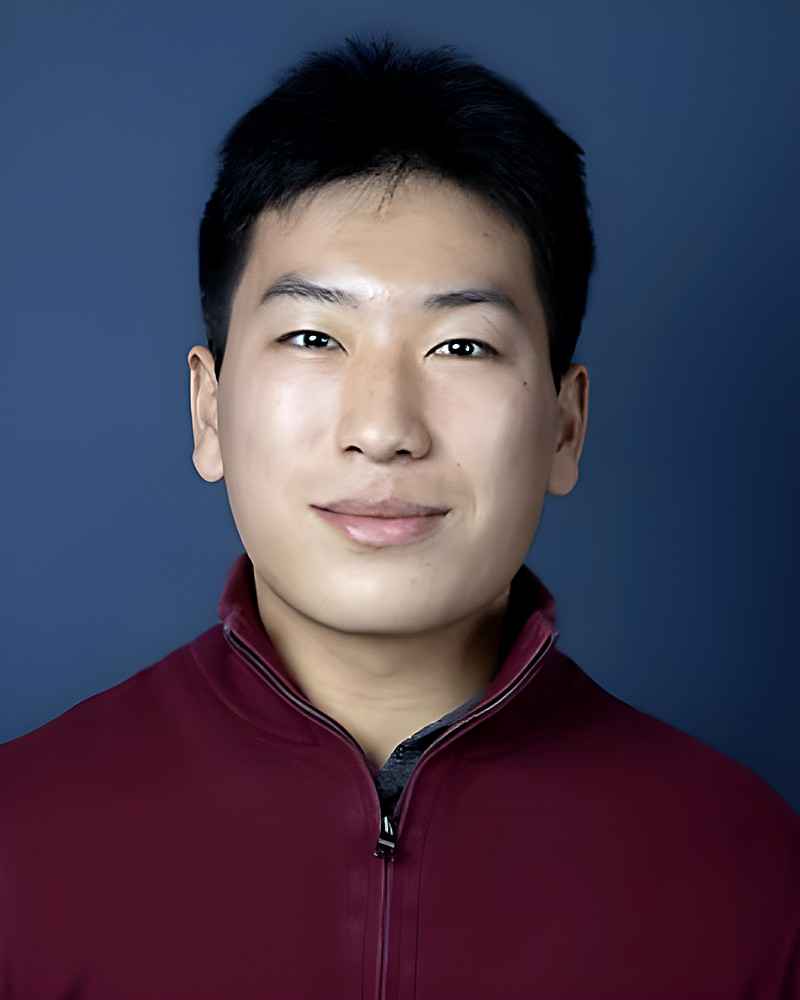
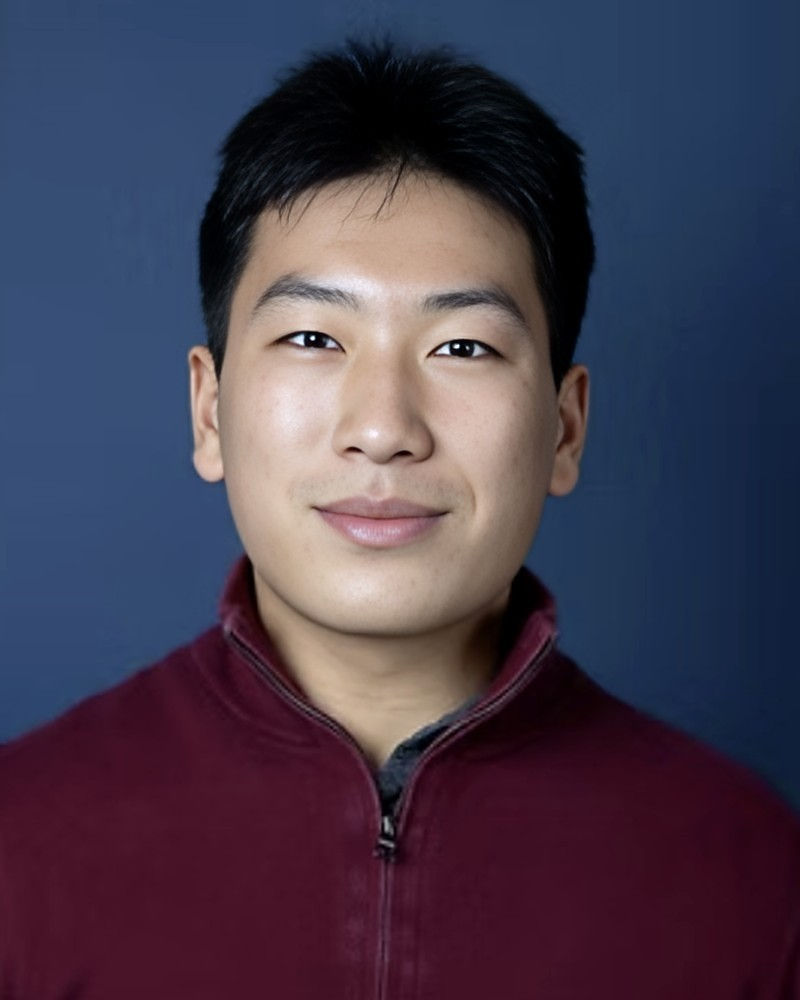
Headshot restored with GFPGAN

diff --git a/IMAGES-NEEDED.md b/IMAGES-NEEDED.md
@@ -10,7 +10,7 @@ Every image slot on the site, what to shoot, and where the file goes. Placeholde
 
 Already real: `assets/amat-fab.jpg` is a public-domain U.S. State Department photo of an Applied Materials cleanroom (Maydan Technology Center, 2022, via Wikimedia Commons), cropped to 4:3. `assets/cygnus-berth.jpg` is a NASA photo of Cygnus being installed on the ISS (iss065e238807; NASA imagery is public domain, credited in the captions).
 Also real: `assets/halo-render.jpg`, `assets/halo-tvc.jpg`, `assets/halo-leg-fea.jpg` are the team's own HALO CAD render and design-review material (supplied by Terrence 2026-10-18).
-Also real: `assets/headshot.jpg` is his headshot: a 674x496 screenshot crop upscaled 4x with Real-ESRGAN, then lightly brightened, contrast-boosted and sharpened. A higher-resolution original would still beat it.
+Also real: `assets/headshot.jpg` is his headshot: a 674x496 screenshot crop restored with GFPGAN v1.4 (face restoration, 4x) and lightly toned and sharpened. A higher-resolution original would still beat it.
 Also real: `assets/about-mitty.jpg` is Terrence in his high school robotics lab (Mitty Robotics).
 Also real: `assets/moveit-rviz.jpg` is a generic MoveIt/RViz screenshot from the MoveIt 2 tutorials repository (BSD-3, PickNik/Willow Garage), stand-in until a real xArm 6 simulation screenshot exists.
 Also real: `assets/begley-test.mp4` (+ poster) is Terrence's own early Begley Lab test footage, cropped square.
